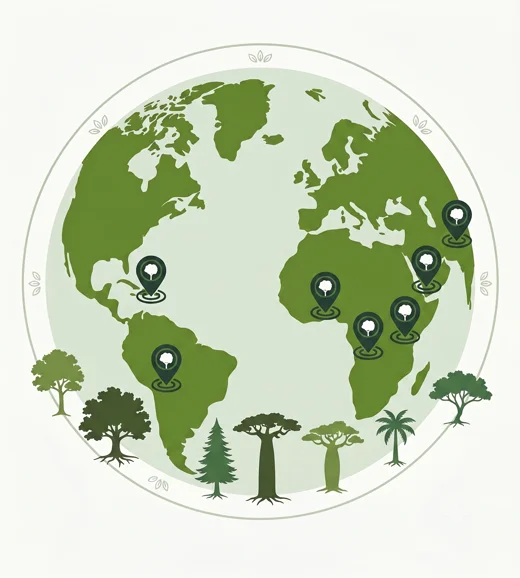
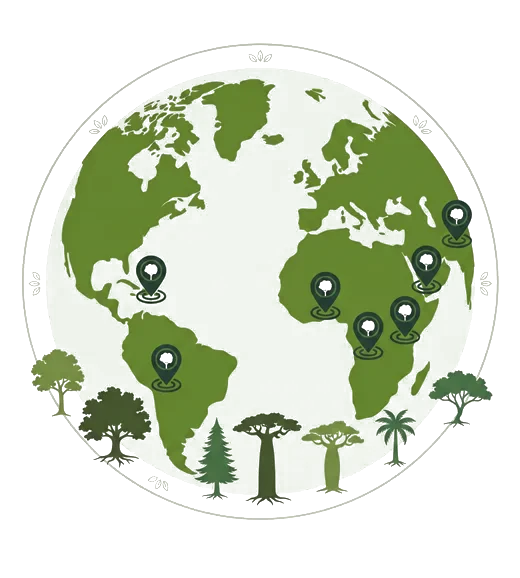
sponsor ui

Changed region(s): [[0.0615, 0.0934, 0.8308, 0.872], [0.7385, 0.436, 0.9538, 0.7474]]

diff --git a/landcheck-web/src/pages/Green.tsx b/landcheck-web/src/pages/Green.tsx
@@ -1031,7 +1031,7 @@ export default function Green() {
   const [mapDrawMode, setMapDrawMode] = useState(true);
   const [fieldViewTab, setFieldViewTab] = useState<"map" | "add_tree">("map");
   const [sponsorQrUnits, setSponsorQrUnits] = useState<Array<{
-    unit_id: number; unit_uid: string | null; sponsor_name: string | null;
+    unit_id: number; unit_uid: string | null; assigned_work_order_id?: number | null; sponsor_name: string | null;
     sponsor_organization_name: string | null; species: string | null;
     dedication_type: string | null; dedication_name: string | null;
     qr_download_count: number; last_qr_downloaded_at: string | null; last_qr_downloaded_by: string | null;
@@ -2287,6 +2287,7 @@ export default function Green() {
         setSponsorQrUnits(rows.map((row) => ({
           unit_id: Number(row.unit_id || 0),
           unit_uid: row.unit_uid ? String(row.unit_uid) : null,
+          assigned_work_order_id: row.assigned_work_order_id == null ? null : Number(row.assigned_work_order_id || 0),
           sponsor_name: row.sponsor_name ? String(row.sponsor_name) : null,
           sponsor_organization_name: row.sponsor_organization_name ? String(row.sponsor_organization_name) : null,
           species: row.species ? String(row.species) : null,
@@ -4290,8 +4291,17 @@ export default function Green() {
                   )}
                   {sponsorQrUnits.length > 0 && (
                     <div className="green-sponsor-qr-list">
+                      <div className="work-actions" style={{ marginBottom: 12 }}>
+                        <a
+                          href={`${BACKEND_URL}/green/agent/sponsor-qr-tags/pdf?project_id=${Number(activeProject?.id || 0)}&user_id=${Number(greenAuthUser?.id || 0)}&sync=1${greenAuthUser?.organization_id ? `&organization_id=${greenAuthUser.organization_id}` : ""}`}
+                          target="_blank"
+                          rel="noopener noreferrer"
+                          className="green-sponsor-qr-dl-btn"
+                        >
+                          ↓ Download QR Sheet ({sponsorQrUnits.length} tag{sponsorQrUnits.length === 1 ? "" : "s"})
+                        </a>
+                      </div>
                       {sponsorQrUnits.map((unit) => {
-                        const qrUrl = `${BACKEND_URL}/green/sponsorship-units/${unit.unit_id}/qr-tag/pdf?user_id=${Number(greenAuthUser?.id || 0)}${greenAuthUser?.organization_id ? `&organization_id=${greenAuthUser.organization_id}` : ""}`;
                         return (
                           <div key={`qr-unit-${unit.unit_id}`} className="green-sponsor-qr-card">
                             <div className="green-sponsor-qr-card-head">
@@ -4309,14 +4319,12 @@ export default function Green() {
                                 {Number(unit.qr_download_count) > 0 ? `DL×${unit.qr_download_count}` : "Not DL'd"}
                               </span>
                             </div>
-                            <a
-                              href={qrUrl}
-                              target="_blank"
-                              rel="noopener noreferrer"
-                              className="green-sponsor-qr-dl-btn"
-                            >
-                              ↓ Download QR Tag PDF
-                            </a>
+                            {unit.last_qr_downloaded_at ? (
+                              <span className="green-sponsor-qr-card-ded">
+                                Last download: {new Date(unit.last_qr_downloaded_at).toLocaleString()}
+                                {unit.last_qr_downloaded_by ? ` · ${unit.last_qr_downloaded_by}` : ""}
+                              </span>
+                            ) : null}
                           </div>
                         );
                       })}

diff --git a/landcheck-web/src/pages/GreenWork.tsx b/landcheck-web/src/pages/GreenWork.tsx
@@ -13272,7 +13272,14 @@ export default function GreenWork() {
                                   </div>
                                 ) : null}
                               </td>
-                              <td>{row.unit_uid || `Unit #${row.unit_id}`}</td>
+                              <td>
+                                <div>{row.unit_uid || `Unit #${row.unit_id}`}</div>
+                                {row.species ? (
+                                  <div style={{ fontSize: 11, color: "#56705f", marginTop: 4 }}>
+                                    Species: {row.species}
+                                  </div>
+                                ) : null}
+                              </td>
                               <td>
                                 <span className={`green-work-live-pill ${Number(row.qr_download_count || 0) > 0 ? "ok" : "warning"}`}>
                                   {row.download_status === "downloaded" ? "Downloaded" : "Pending download"}
@@ -14848,12 +14855,12 @@ export default function GreenWork() {
                   }}
                   disabled={!activeProjectId || assigningWorkOrder}
                 />
-                <span>Enable species-based allocation (optional)</span>
+                <span>Enable species-based allocation for the assigned sponsor QR tags (optional)</span>
               </label>
               {newOrderSpeciesMode && (
                 <div className="green-work-species-allocation">
                   <label className="green-work-field-label">Species allocation rows</label>
-                  <p className="green-work-note">Enter species names manually exactly as you want field officers to select them in Green.</p>
+                  <p className="green-work-note">Enter species names exactly as you want them to appear on the agent QR sheet before planting and inside Green capture.</p>
                   {newOrderSpeciesAllocations.map((row, index) => (
                     <div key={`species-allocation-${index}`} className="green-work-species-allocation-row">
                       <input

diff --git a/landcheck-web/src/styles/green-public-sponsor.css b/landcheck-web/src/styles/green-public-sponsor.css
@@ -231,8 +231,8 @@
   left: 19.5%;
   top: 50%;
   transform: translate(-50%, -50%);
-  width: clamp(170px, 22vw, 300px);
-  height: clamp(170px, 22vw, 300px);
+  width: clamp(200px, 25vw, 340px);
+  height: clamp(200px, 25vw, 340px);
   pointer-events: none;
 }
 .gps-hero-globe-svg { width: 100%; height: 100%; display: block; object-fit: contain; filter: drop-shadow(0 14px 26px rgba(27,58,44,0.28)); }
@@ -387,7 +387,7 @@
   .gps-feature-card { text-align: center; align-items: center; }
   .gps-hero-media-wrap { position: relative; inset: auto; left: auto; height: 260px; }
   /* Same clip-path percentages as desktop; at y=18% the seam is at local-x ≈ 35% - 31%*0.18 = 29.4% */
-  .gps-hero-globe { left: 29%; top: 18%; transform: translate(-50%, -50%); width: 130px; height: 130px; }
+  .gps-hero-globe { left: 29%; top: 18%; transform: translate(-50%, -50%); width: 155px; height: 155px; }
 }
 
 /* ─── Recently sponsored — floating balloon toast ──────────────── */
@@ -1353,5 +1353,5 @@
 @media (max-width: 420px) {
   .gps-hero-text-panel { padding: 28px 14px 32px; }
   .gps-hero-media-wrap { height: 210px; }
-  .gps-hero-globe { width: 100px; height: 100px; }
+  .gps-hero-globe { width: 120px; height: 120px; }
 }